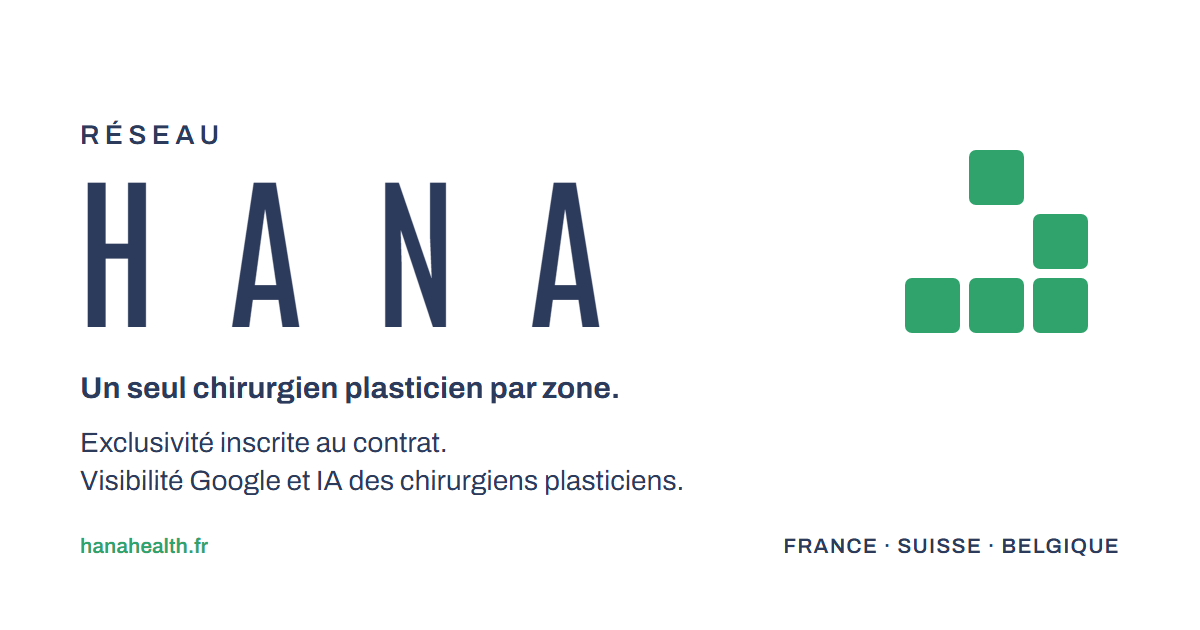
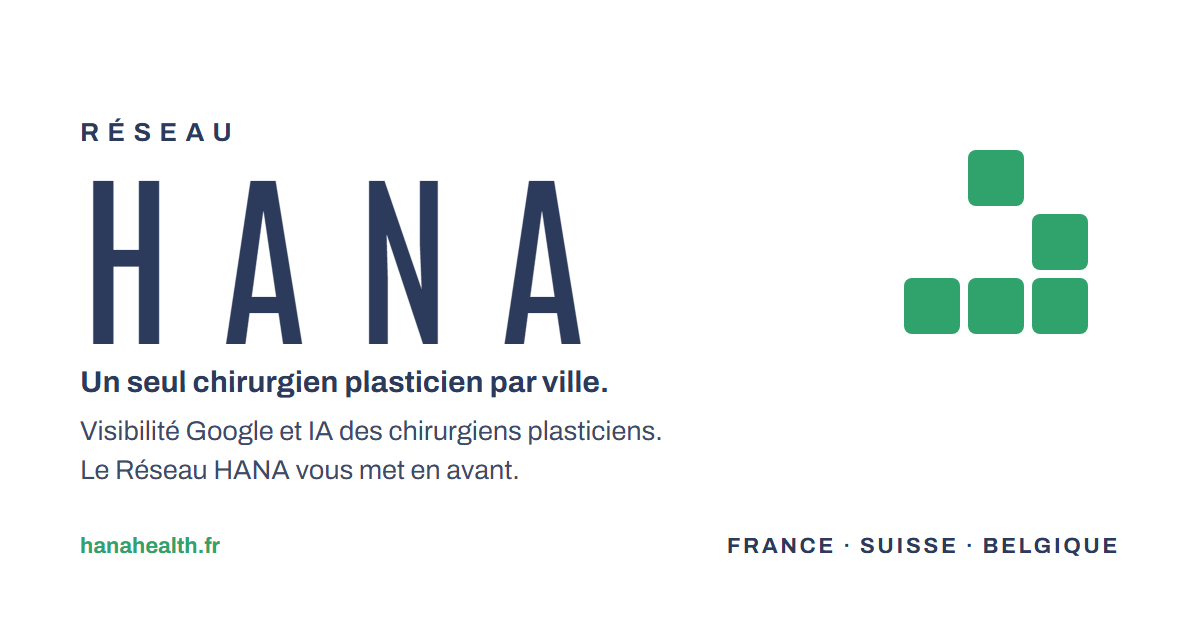
Image de partage : « par ville », sans « inscrite au contrat »

diff --git a/index.html b/index.html
@@ -11,14 +11,14 @@
 <meta property="og:site_name" content="Réseau HANA">
 <meta property="og:title" content="Réseau HANA · Visibilité Google et IA un seul chirurgien plasticien par ville">
 <meta property="og:description" content="Un seul chirurgien plasticien par ville. Celui qui prend la place est le seul de sa ville dont nous travaillons la visibilité sur Google et dans les moteurs IA.">
-<meta property="og:image" content="https://hanahealth.fr/assets/og.png?v=18">
+<meta property="og:image" content="https://hanahealth.fr/assets/og.png?v=19">
 <meta property="og:image:width" content="1200">
 <meta property="og:image:height" content="630">
 <meta property="og:image:alt" content="Réseau HANA. Un seul chirurgien plasticien par ville. France, Suisse, Belgique.">
 <meta name="twitter:card" content="summary_large_image">
 <meta name="twitter:title" content="Réseau HANA · Visibilité Google et IA un seul chirurgien plasticien par ville">
 <meta name="twitter:description" content="Un seul chirurgien plasticien par ville. Celui qui prend la place est le seul de sa ville dont nous travaillons la visibilité sur Google et dans les moteurs IA.">
-<meta name="twitter:image" content="https://hanahealth.fr/assets/og.png?v=18">
+<meta name="twitter:image" content="https://hanahealth.fr/assets/og.png?v=19">
 <meta property="og:url" content="https://hanahealth.fr/">
 <meta property="og:locale" content="fr_FR">
 <meta name="theme-color" content="#ffffff">

diff --git a/ce-que-nous-faisons.html b/ce-que-nous-faisons.html
@@ -11,7 +11,7 @@
 <meta property="og:site_name" content="Réseau HANA">
 <meta property="og:title" content="L'écosystème · Pourquoi tout ensemble · Réseau HANA">
 <meta property="og:description" content="Un site seul ne suffit plus : votre site, votre fiche Google, vos contenus et le Réseau HANA doivent présenter des informations cohérentes. Six prestations, un seul écosystème.">
-<meta property="og:image" content="https://hanahealth.fr/assets/og.png?v=18">
+<meta property="og:image" content="https://hanahealth.fr/assets/og.png?v=19">
 <meta property="og:url" content="https://hanahealth.fr/ce-que-nous-faisons.html">
 <meta property="og:locale" content="fr_FR">
 <meta name="twitter:card" content="summary_large_image">

diff --git a/site-internet.html b/site-internet.html
@@ -11,7 +11,7 @@
 <meta property="og:site_name" content="Réseau HANA">
 <meta property="og:title" content="Création et refonte de site internet · Réseau HANA">
 <meta property="og:description" content="Le site d'un chirurgien plasticien : architecture SEO, pages actes, plateau technique, cadre déontologique. Conçu, développé et référencé par des spécialistes de votre discipline.">
-<meta property="og:image" content="https://hanahealth.fr/assets/og.png?v=18">
+<meta property="og:image" content="https://hanahealth.fr/assets/og.png?v=19">
 <meta property="og:url" content="https://hanahealth.fr/site-internet.html">
 <meta property="og:locale" content="fr_FR">
 <meta name="twitter:card" content="summary_large_image">

diff --git a/references.html b/references.html
@@ -11,7 +11,7 @@
 <meta property="og:site_name" content="Réseau HANA">
 <meta property="og:title" content="Références · Des praticiens que nous avons rendus visibles · Réseau HANA">
 <meta property="og:description" content="Onze sites publics : chirurgiens plasticiens, praticiens et cliniques que nous avons accompagnés. Des cas chiffrés et anonymisés sont présentés en visio.">
-<meta property="og:image" content="https://hanahealth.fr/assets/og.png?v=18">
+<meta property="og:image" content="https://hanahealth.fr/assets/og.png?v=19">
 <meta property="og:url" content="https://hanahealth.fr/references.html">
 <meta property="og:locale" content="fr_FR">
 <meta name="twitter:card" content="summary_large_image">

diff --git a/tarifs.html b/tarifs.html
@@ -11,7 +11,7 @@
 <meta property="og:site_name" content="Réseau HANA">
 <meta property="og:title" content="Tarifs · Une formule, tout compris · Réseau HANA">
 <meta property="og:description" content="2 050 € HT par mois, le même prix pour tous les membres. Site à partir de 2 000 € HT, selon le périmètre du projet, facturé une fois. Un seul chirurgien plasticien par ville.">
-<meta property="og:image" content="https://hanahealth.fr/assets/og.png?v=18">
+<meta property="og:image" content="https://hanahealth.fr/assets/og.png?v=19">
 <meta property="og:url" content="https://hanahealth.fr/tarifs.html">
 <meta property="og:locale" content="fr_FR">
 <meta name="twitter:card" content="summary_large_image">

diff --git a/visibilite-ia.html b/visibilite-ia.html
@@ -11,7 +11,7 @@
 <meta property="og:site_name" content="Réseau HANA">
 <meta property="og:title" content="Visibilité dans les IA · GEO · Réseau HANA">
 <meta property="og:description" content="Nous travaillons les conditions de votre visibilité dans les moteurs et assistants IA : identité, contenus, sources, structure, suivi mensuel. Nous ne promettons pas une citation.">
-<meta property="og:image" content="https://hanahealth.fr/assets/og.png?v=18">
+<meta property="og:image" content="https://hanahealth.fr/assets/og.png?v=19">
 <meta property="og:url" content="https://hanahealth.fr/visibilite-ia.html">
 <meta property="og:locale" content="fr_FR">
 <meta name="twitter:card" content="summary_large_image">

diff --git a/reseau.html b/reseau.html
@@ -11,7 +11,7 @@
 <meta property="og:site_name" content="Réseau HANA">
 <meta property="og:title" content="Le Réseau HANA · Un seul chirurgien plasticien par ville">
 <meta property="og:description" content="Pourquoi un seul chirurgien plasticien par ville : une seule première place sur Google, zéro conflit d'intérêts. Le Réseau HANA, en France, en Belgique et en Suisse.">
-<meta property="og:image" content="https://hanahealth.fr/assets/og.png?v=18">
+<meta property="og:image" content="https://hanahealth.fr/assets/og.png?v=19">
 <meta property="og:url" content="https://hanahealth.fr/reseau.html">
 <meta property="og:locale" content="fr_FR">
 <meta name="twitter:card" content="summary_large_image">

diff --git a/fonctionnement-reseau.html b/fonctionnement-reseau.html
@@ -11,7 +11,7 @@
 <meta property="og:site_name" content="Réseau HANA">
 <meta property="og:title" content="Comment fonctionne le réseau HANA">
 <meta property="og:description" content="Un seul chirurgien plasticien par ville : une règle d'organisation du réseau, pas un classement médical. Ce que finance l'accompagnement, ce que HANA ne contrôle pas.">
-<meta property="og:image" content="https://hanahealth.fr/assets/og.png?v=18">
+<meta property="og:image" content="https://hanahealth.fr/assets/og.png?v=19">
 <meta property="og:url" content="https://hanahealth.fr/fonctionnement-reseau.html">
 <meta property="og:locale" content="fr_FR">
 <meta name="twitter:card" content="summary_large_image">

diff --git a/referencement-google.html b/referencement-google.html
@@ -11,7 +11,7 @@
 <meta property="og:site_name" content="Réseau HANA">
 <meta property="og:title" content="Référencement Google · Réseau HANA">
 <meta property="og:description" content="Une page pour chaque intervention, des contenus médicaux utiles, une architecture cohérente et un SEO technique suivi chaque mois. Sans promesse de position.">
-<meta property="og:image" content="https://hanahealth.fr/assets/og.png?v=18">
+<meta property="og:image" content="https://hanahealth.fr/assets/og.png?v=19">
 <meta property="og:url" content="https://hanahealth.fr/referencement-google.html">
 <meta property="og:locale" content="fr_FR">
 <meta name="twitter:card" content="summary_large_image">

diff --git a/fiche-google.html b/fiche-google.html
@@ -11,7 +11,7 @@
 <meta property="og:site_name" content="Réseau HANA">
 <meta property="og:title" content="Fiche Google · Réseau HANA">
 <meta property="og:description" content="Votre fiche Google travaillée chaque jour, cohérente avec votre site et vos autres sources. Huit publications par mois, avis répondus sous 24 h. Sans promesse de position.">
-<meta property="og:image" content="https://hanahealth.fr/assets/og.png?v=18">
+<meta property="og:image" content="https://hanahealth.fr/assets/og.png?v=19">
 <meta property="og:url" content="https://hanahealth.fr/fiche-google.html">
 <meta property="og:locale" content="fr_FR">
 <meta name="twitter:card" content="summary_large_image">

diff --git a/youtube-linkedin.html b/youtube-linkedin.html
@@ -11,7 +11,7 @@
 <meta property="og:site_name" content="Réseau HANA">
 <meta property="og:title" content="YouTube et LinkedIn · Réseau HANA">
 <meta property="og:description" content="Vous filmez déjà. HANA publie et optimise vos vidéos existantes sur YouTube et LinkedIn, en cohérence avec votre site. Sans tournage supplémentaire.">
-<meta property="og:image" content="https://hanahealth.fr/assets/og.png?v=18">
+<meta property="og:image" content="https://hanahealth.fr/assets/og.png?v=19">
 <meta property="og:url" content="https://hanahealth.fr/youtube-linkedin.html">
 <meta property="og:locale" content="fr_FR">
 <meta name="twitter:card" content="summary_large_image">

diff --git a/maintenance.html b/maintenance.html
@@ -11,7 +11,7 @@
 <meta property="og:site_name" content="Réseau HANA">
 <meta property="og:title" content="Maintenance et sécurité · Réseau HANA">
 <meta property="og:description" content="Votre site reste suivi, vous n'avez rien à gérer : mises à jour, surveillance, sauvegardes et corrections incluses dans l'accompagnement HANA.">
-<meta property="og:image" content="https://hanahealth.fr/assets/og.png?v=18">
+<meta property="og:image" content="https://hanahealth.fr/assets/og.png?v=19">
 <meta property="og:url" content="https://hanahealth.fr/maintenance.html">
 <meta property="og:locale" content="fr_FR">
 <meta name="twitter:card" content="summary_large_image">
